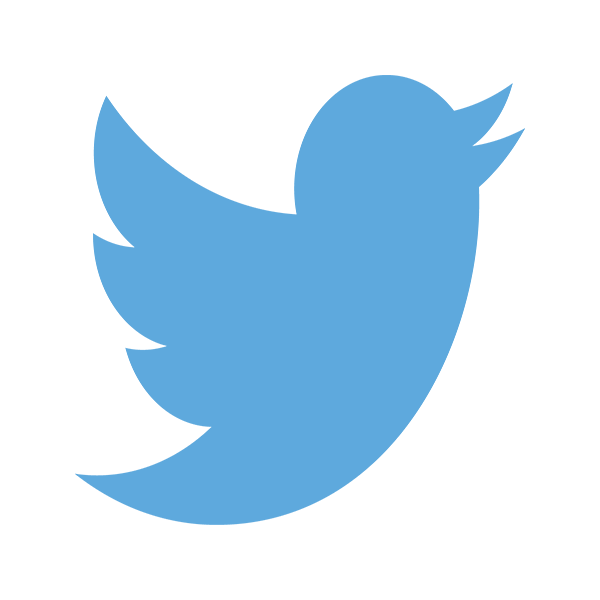
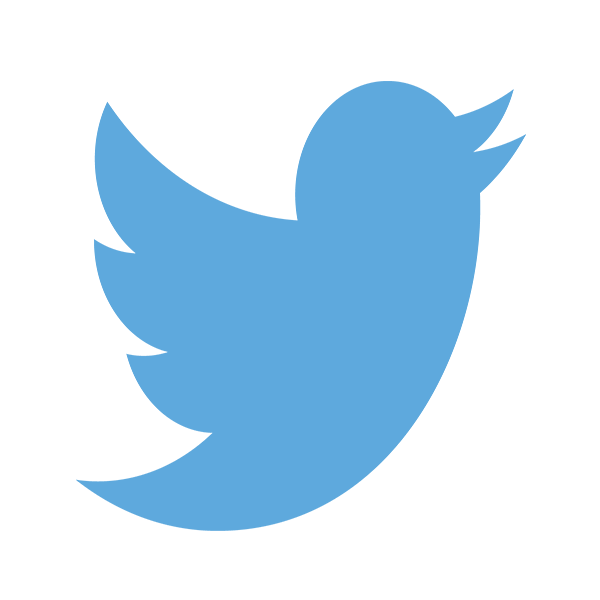
added links for pics

diff --git a/views/ImJessW.html b/views/ImJessW.html
@@ -55,9 +55,14 @@
 			<div class="p75">
 				<h3> { Let's Connect } </h3>
 				<div class="contactMe">
-					<img src="../images/angel_list.png">
-					<img src="../images/instagram.png">
-					<!-- <img src="../images/Twitter.png"> -->
+					<a href="">
+						<img src="../images/angel_list.png">
+					</a>
+					<a href="">
+						<img src="../images/instagram.png">
+					<a href="">
+						<img src="../images/Twitter.png">
+					</a>
 				</div>
 			<!-- questions button -->
 
